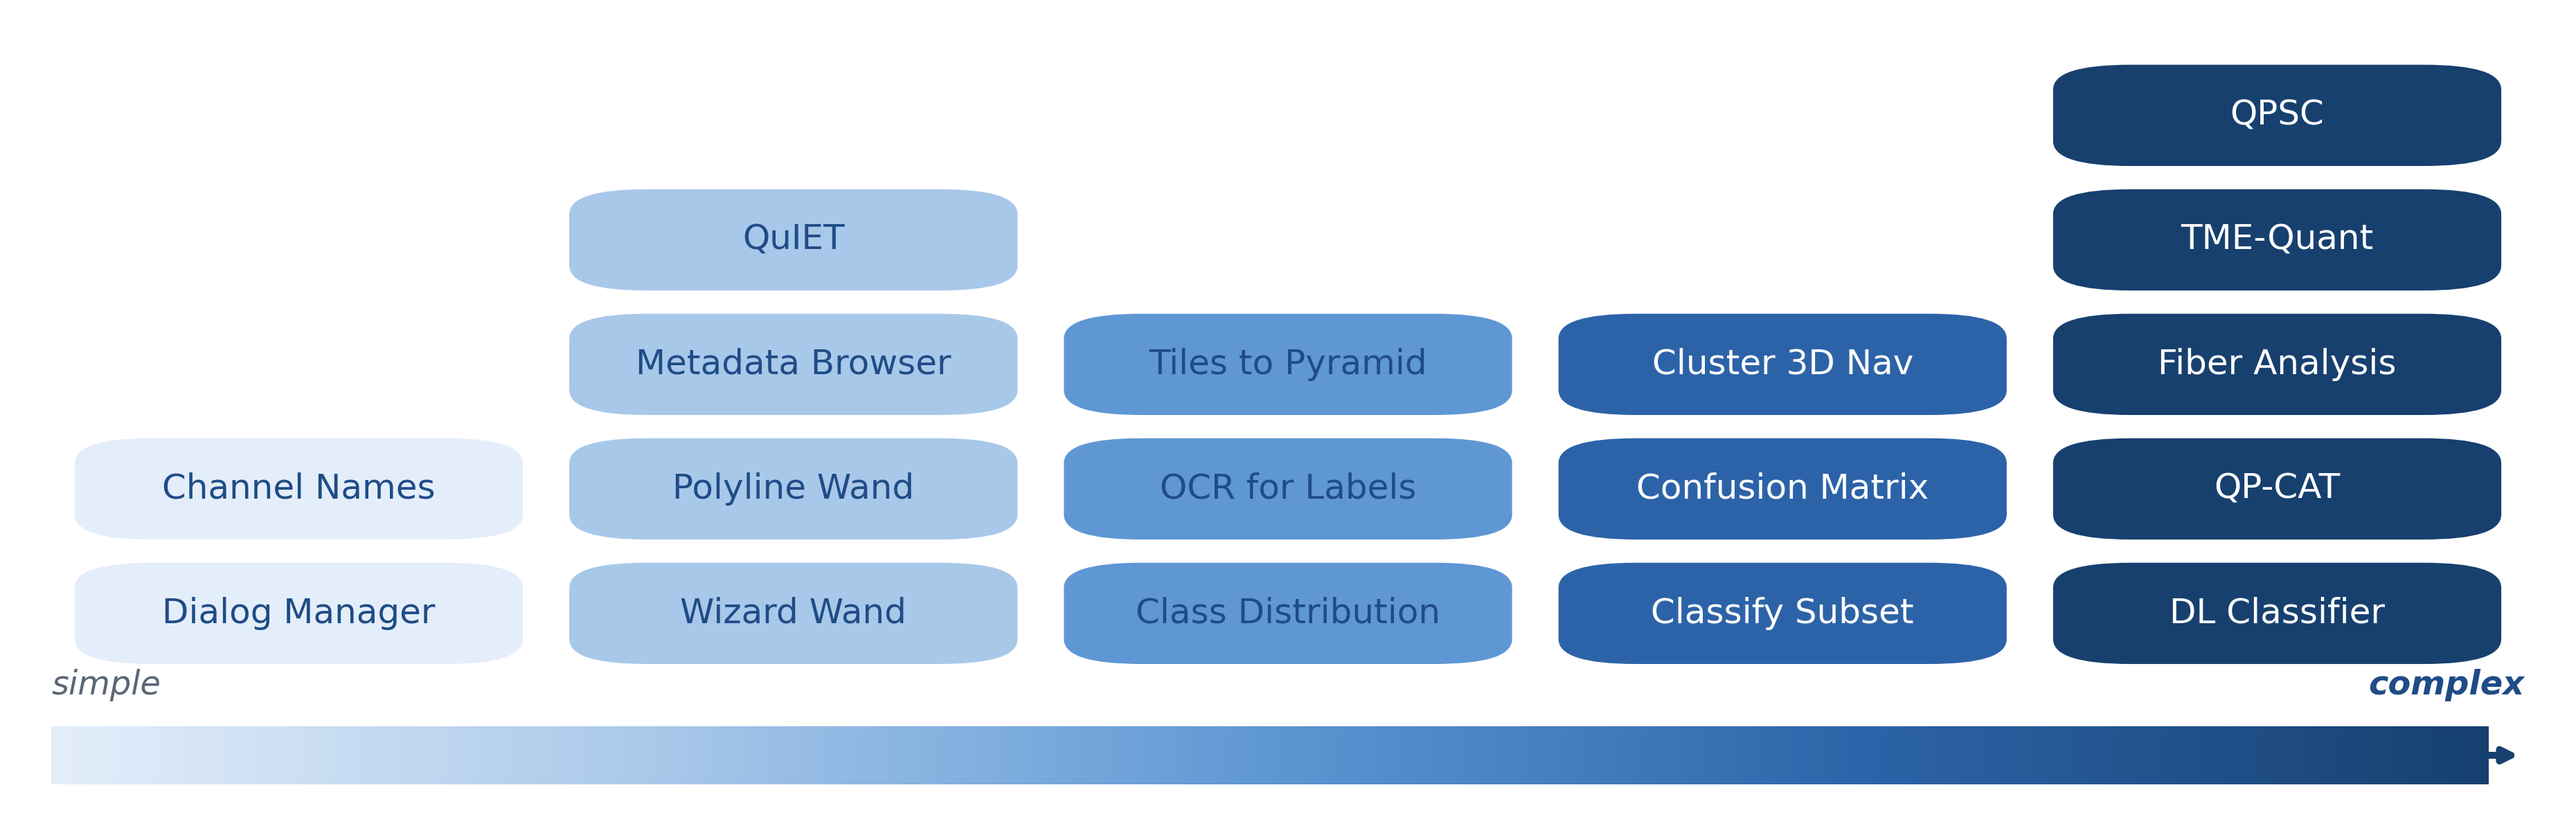
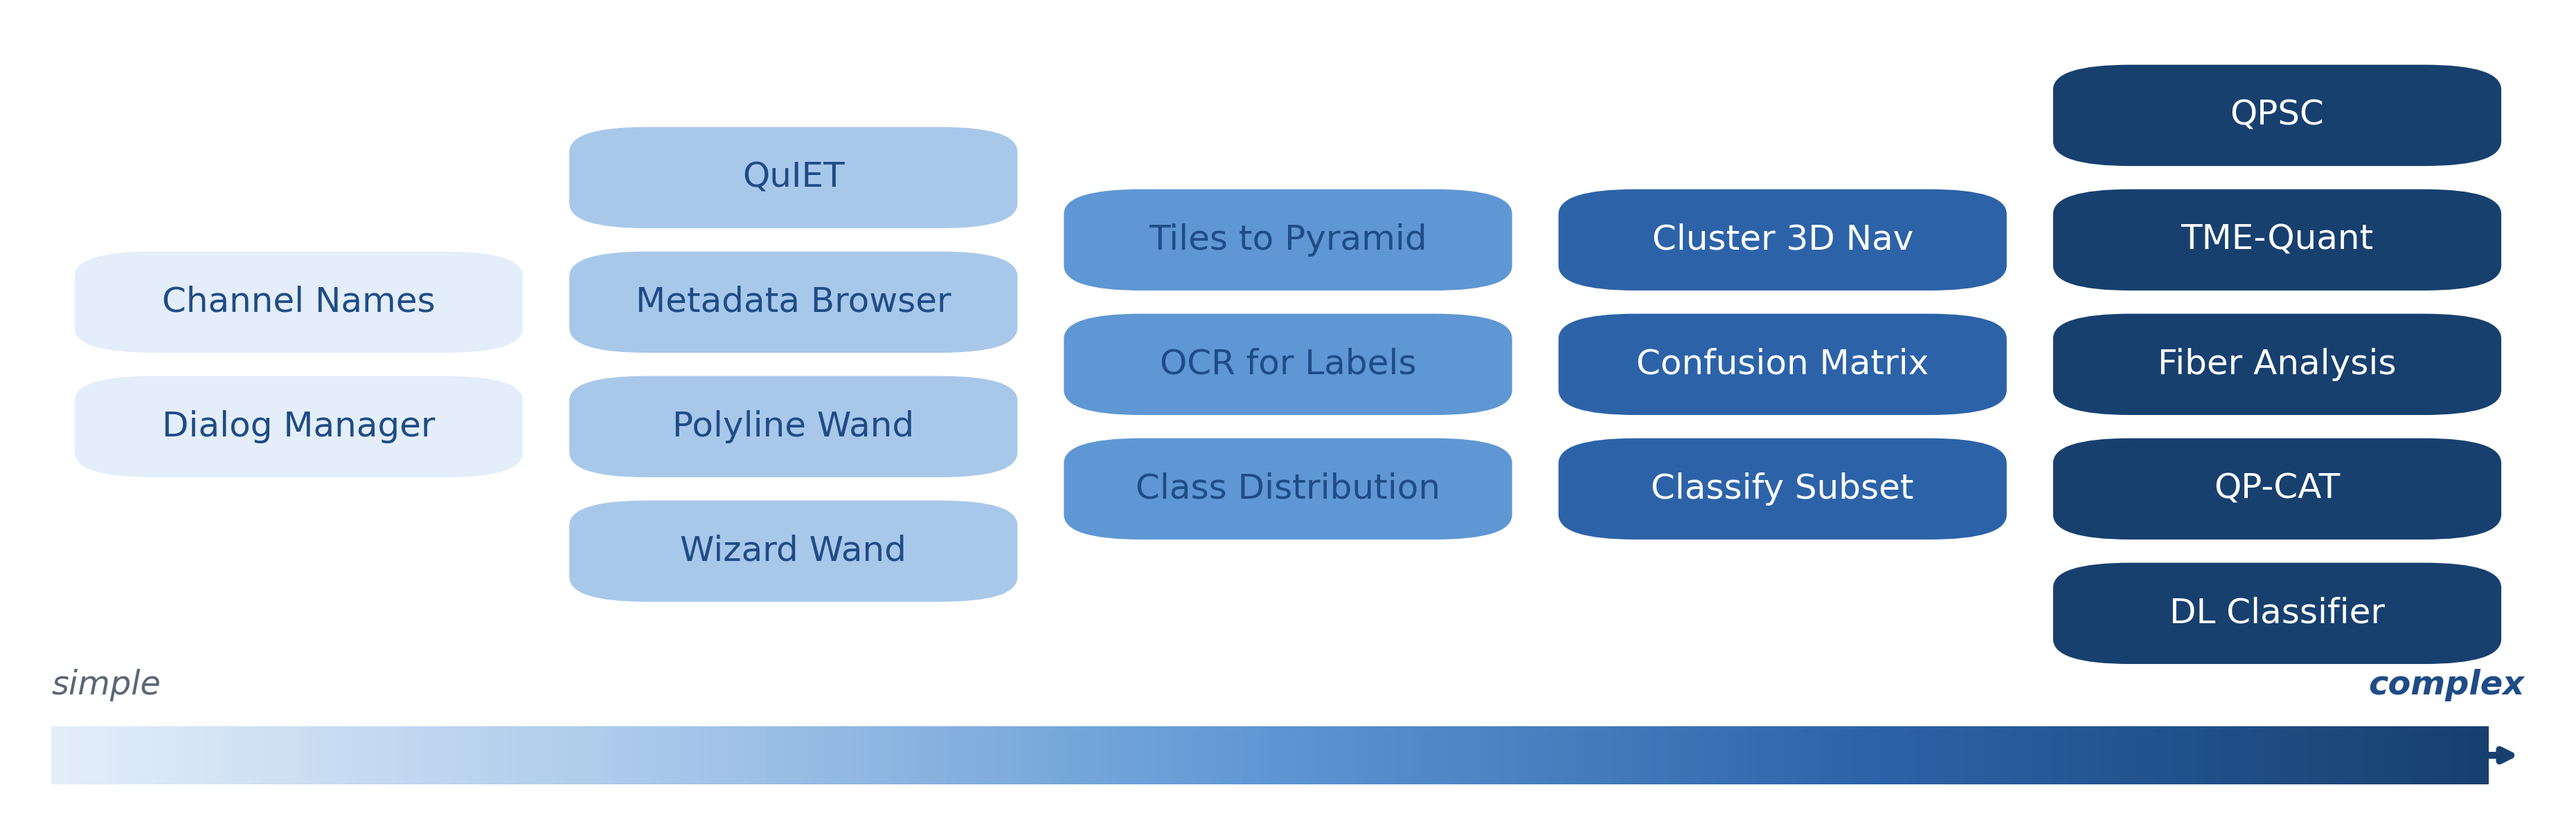
Centre the ramp's columns; rewrite the front-page acknowledgements
The ramp's columns were bottom-aligned, so five columns of unequal
height read as a bar chart: the left looked empty and the tallest
column, which is the most complex end, looked like 'more'. Column
height carries no meaning here, so each column is now centred on a
common midline and the figure reads as a band.

Front page: the acknowledgements were one card about one collaborator
plus a link to everyone else, and they framed the whole section as
sample data. Now a short list of top contributors, each with what they
actually contributed:

  LOCI and Kevin Eliceiri     the lab, and backing the work
  Pete Bankhead and QuPath    QuPath itself, and the original
                              FluorescentChannelNames.groovy
  Sara McArdle                scripts behind two extensions, data,
                              and the FS2K course as a page template
  Kristin Gallik              the Confusion Matrix's origin
  Sample data                 named as four sources, not one
  The methods underneath      CT-FIRE, CurveAlign, TACS, TWOMBLI,
                              CytoMAP, QuBaLab, QUAREP-LiMi

Also drops 'two of these extensions began as her Groovy scripts', which
was already corrected on the slides but not here.

Agnes and Cleveland MetroHealth are not referenced anywhere in the repo;
checked before writing.

Claude-Session: https://claude.ai/code/session_01KwiACUr5MacuDvqp74c96o

diff --git a/index.html b/index.html
@@ -256,16 +256,47 @@ footer{border-top:1px solid var(--hair); margin-top:2rem; padding:1.6rem 0 4rem;
 
 <section>
   <h2>Acknowledgements</h2>
-  <p class="note">Who provided the data, and the work these tools build on.</p>
+  <p class="note">The people and the prior work these tools are built on.</p>
   <div class="grid">
-    <a class="card wide hero" href="docs/acknowledgements.html">
+    <div class="card">
+      <div class="k">The lab</div>
+      <h3>LOCI, and Kevin Eliceiri</h3>
+      <p>For a genuinely collaborative lab, and for backing work on QuPath that sits well outside
+      any job description.</p>
+    </div>
+    <div class="card">
+      <div class="k">QuPath itself</div>
+      <h3>Pete Bankhead &amp; the QuPath team</h3>
+      <p>None of this exists without QuPath. Pete Bankhead also wrote the original
+      <code>FluorescentChannelNames.groovy</code> at the 2022 QuPath Hackathon, which the
+      Channel Names Viewer packages.</p>
+    </div>
+    <div class="card">
+      <div class="k">Scripts, data and a template</div>
+      <h3>Sara McArdle</h3>
+      <p>The channel legend packages a Groovy script of hers; the subset classifier follows a
+      pattern from another. She co-provided the slide-label images, and her FS2K course was the
+      model for how these pages are structured.</p>
+    </div>
+    <div class="card">
+      <div class="k">Where an extension began</div>
+      <h3>Kristin Gallik</h3>
+      <p>The Confusion Matrix grew from her concept and her initial scripts; it was built out
+      into an extension at LOCI.</p>
+    </div>
+    <div class="card">
       <div class="k">Sample data</div>
-      <h3>Sara McArdle &amp; Zbigniew Mikulski &mdash; La Jolla Institute for Immunology</h3>
-      <p>The slide-label images &mdash; six whole-slide images carrying real labels &mdash; were provided by
-      Sara McArdle and Zbigniew Mikulski at LJI, and the OCR and metadata exercises are built on them.
-      Sara McArdle also shaped the software directly: two of these extensions began as her Groovy scripts,
-      and her FS2K course was the model for how these pages are structured.
-      Other datasets are public images, a CC0 synthetic set, and tiles acquired at LOCI. Full credits &rarr;</p>
+      <h3>Four different sources</h3>
+      <p>Slide-label images from <b>Sara McArdle and Zbigniew Mikulski</b> at the La Jolla
+      Institute for Immunology; public whole-slide images; a CC0 synthetic multiplex set; and
+      tiles acquired here at LOCI.</p>
+    </div>
+    <a class="card hero" href="docs/acknowledgements.html">
+      <div class="k">The methods underneath</div>
+      <h3>CT-FIRE &middot; CurveAlign &middot; TACS &middot; TWOMBLI &middot; CytoMAP &middot; QuBaLab &middot; QUAREP-LiMi</h3>
+      <p>Several tools here implement other people&rsquo;s published methods, and the reporting
+      guidance follows a community standard. Cite the methods, not just the tools &mdash;
+      full credits, with citations &rarr;</p>
     </a>
   </div>
 </section>

diff --git a/figures/complexity_ramp.py b/figures/complexity_ramp.py
@@ -47,8 +47,10 @@ RIB_Y, RIB_H = 0.055, 0.070         # gradient ribbon
 CHIP_BOT, CHIP_H, CHIP_GAP = 0.200, 0.122, 0.028
 FS_CHIP, FS_TIER, FS_END = 12, 11.5, 11.5
 
-_top = CHIP_BOT + max(len(v) for v in TIERS) * (CHIP_H + CHIP_GAP)
-assert _top <= 0.98, f"tallest column reaches {_top:.3f}; raise H or shrink CHIP_H"
+_tall = max(len(v) for v in TIERS)
+_block = _tall * CHIP_H + (_tall - 1) * CHIP_GAP
+MID_Y = CHIP_BOT + _block / 2
+assert MID_Y + _block / 2 <= 0.985, f"tallest column reaches {MID_Y + _block/2:.3f}; raise H"
 
 fig = plt.figure(figsize=(W, H), dpi=DPI)
 ax = fig.add_axes([0, 0, 1, 1]); ax.set_xlim(0, 1); ax.set_ylim(0, 1); ax.axis("off")
@@ -74,8 +76,10 @@ for i, names in enumerate(TIERS):
     face = RAMP[i]
     lum = sum(c * k for c, k in zip(matplotlib.colors.to_rgb(face), (0.2126, 0.7152, 0.0722)))
     txt = "#FFFFFF" if lum < 0.5 else BLUE_DK
+    block = len(names) * CHIP_H + (len(names) - 1) * CHIP_GAP
+    base = MID_Y - block / 2
     for j, name in enumerate(names):
-        y = CHIP_BOT + j * (CHIP_H + CHIP_GAP)
+        y = base + j * (CHIP_H + CHIP_GAP)
         ax.add_patch(FancyBboxPatch(
             (cx - chip_w / 2, y), chip_w, CHIP_H,
             boxstyle="round,pad=0,rounding_size=0.030",
